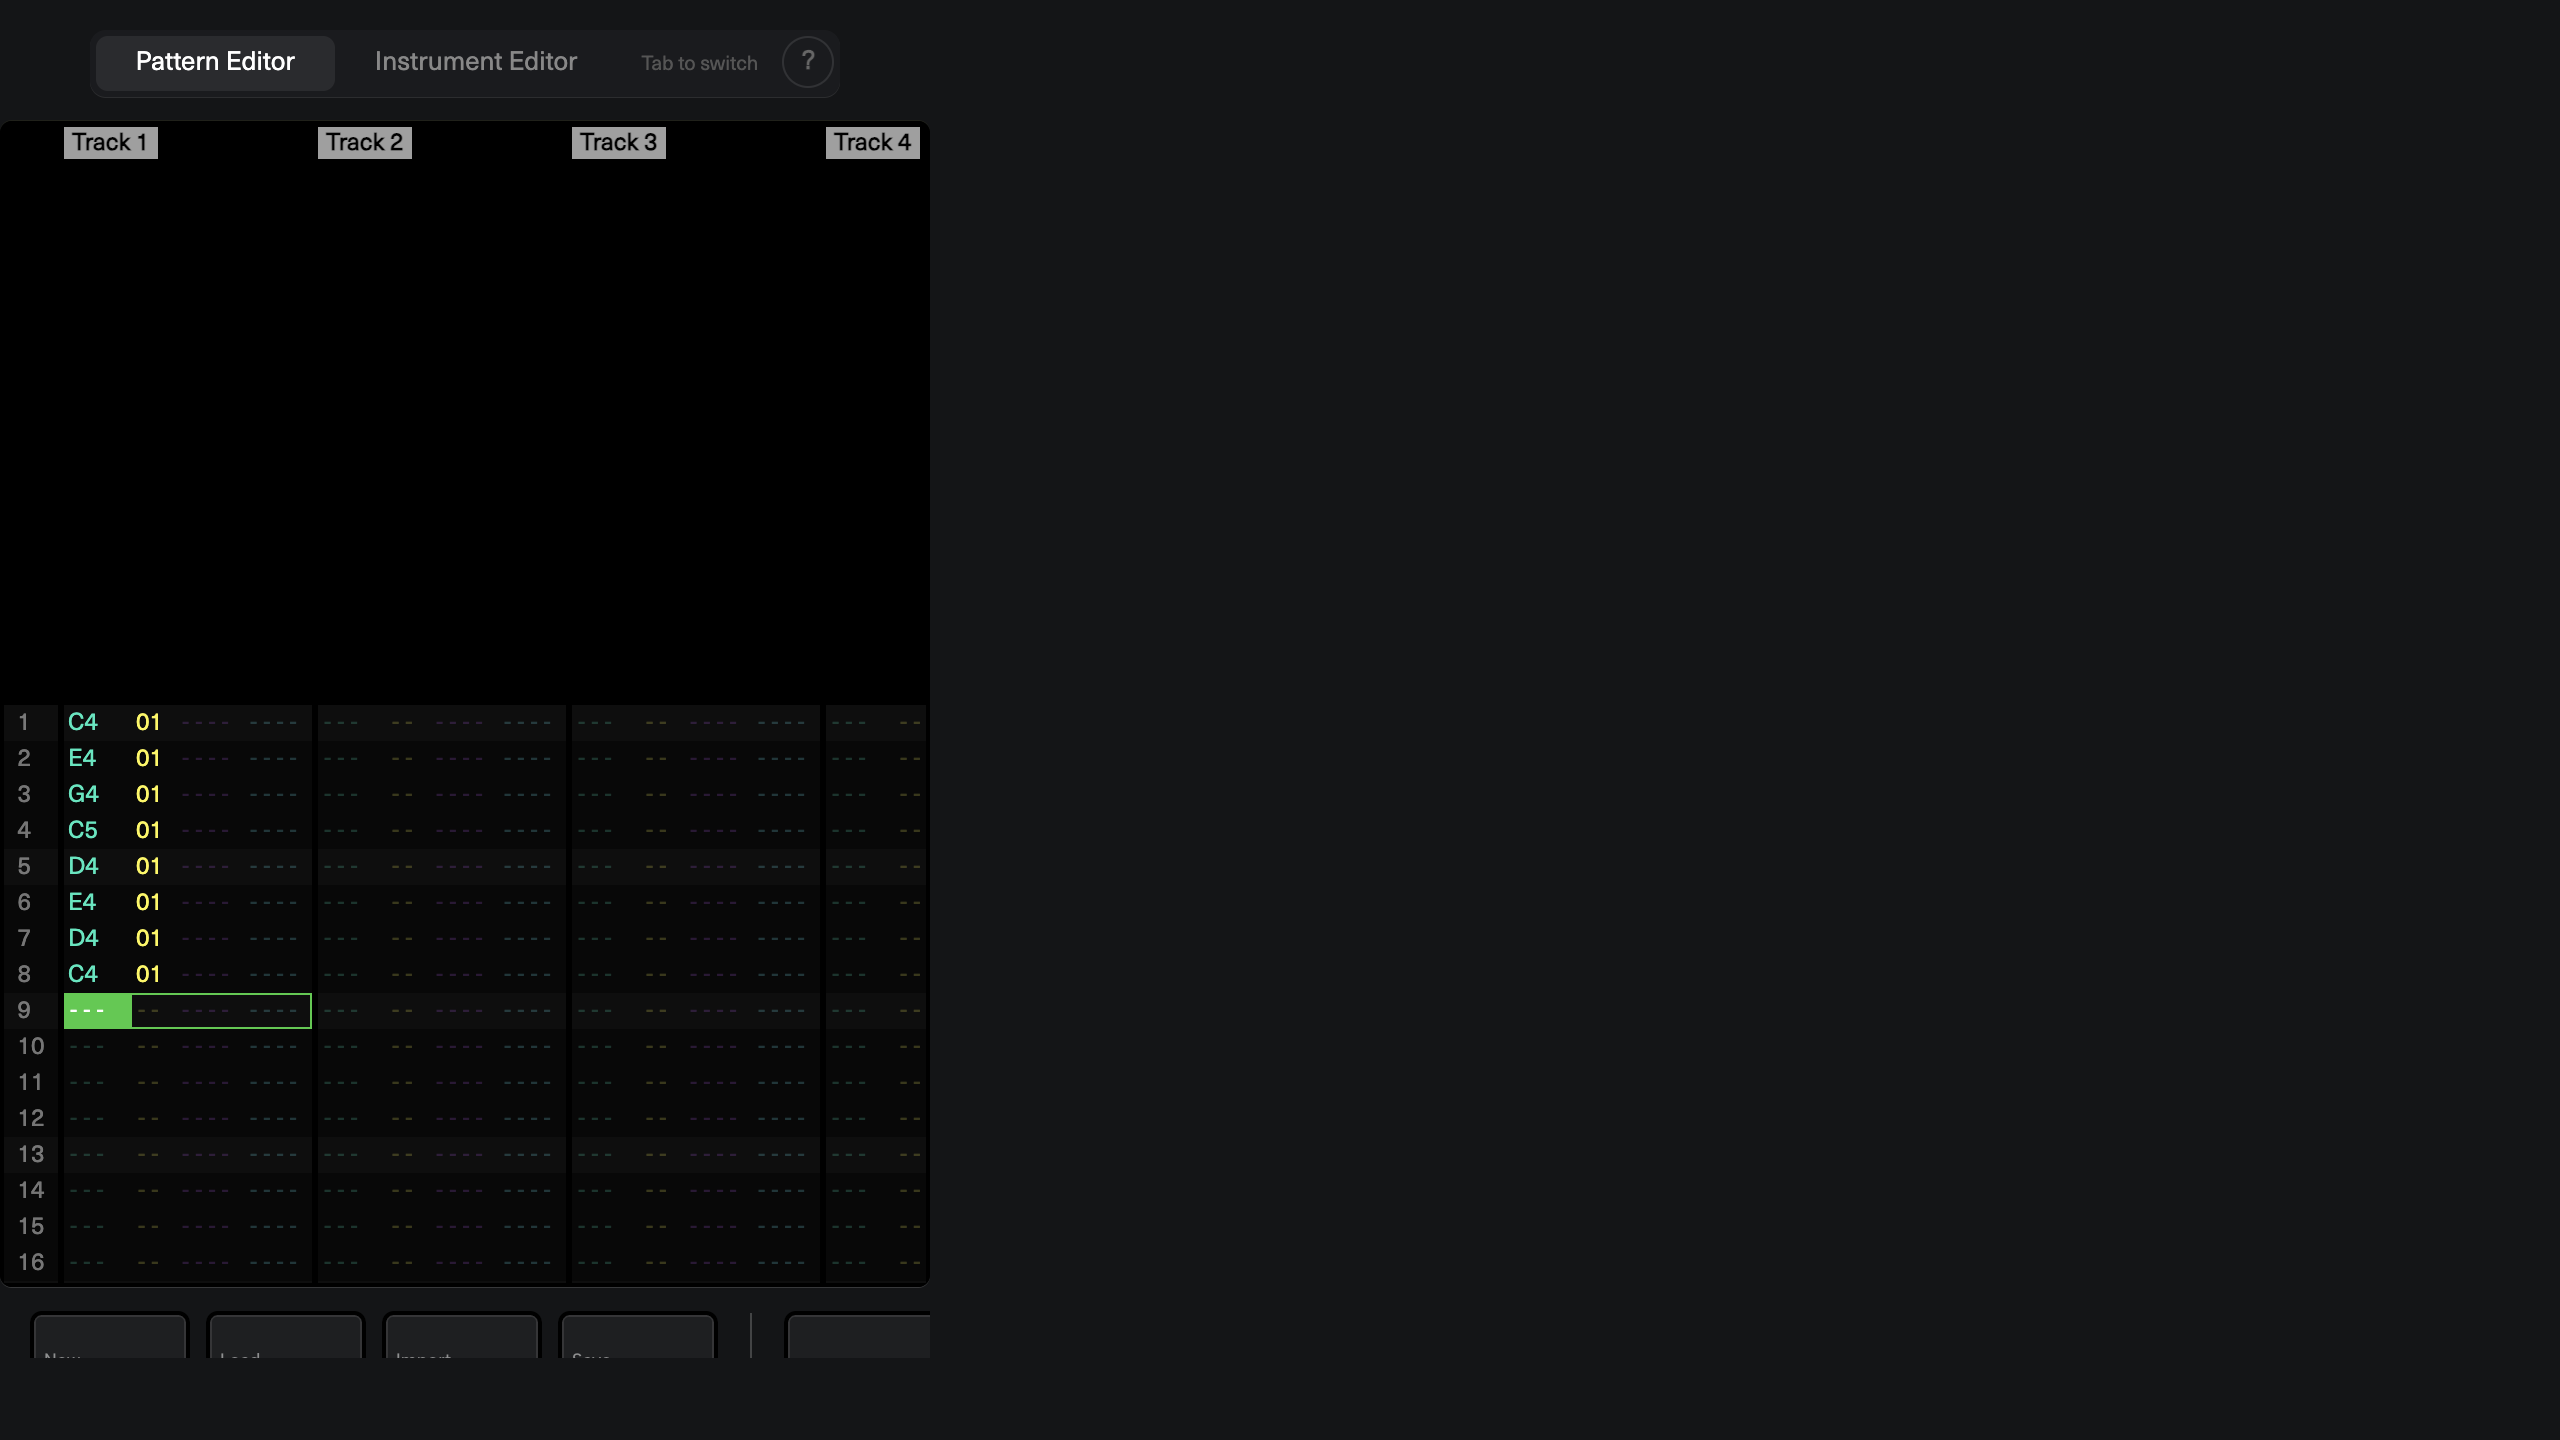
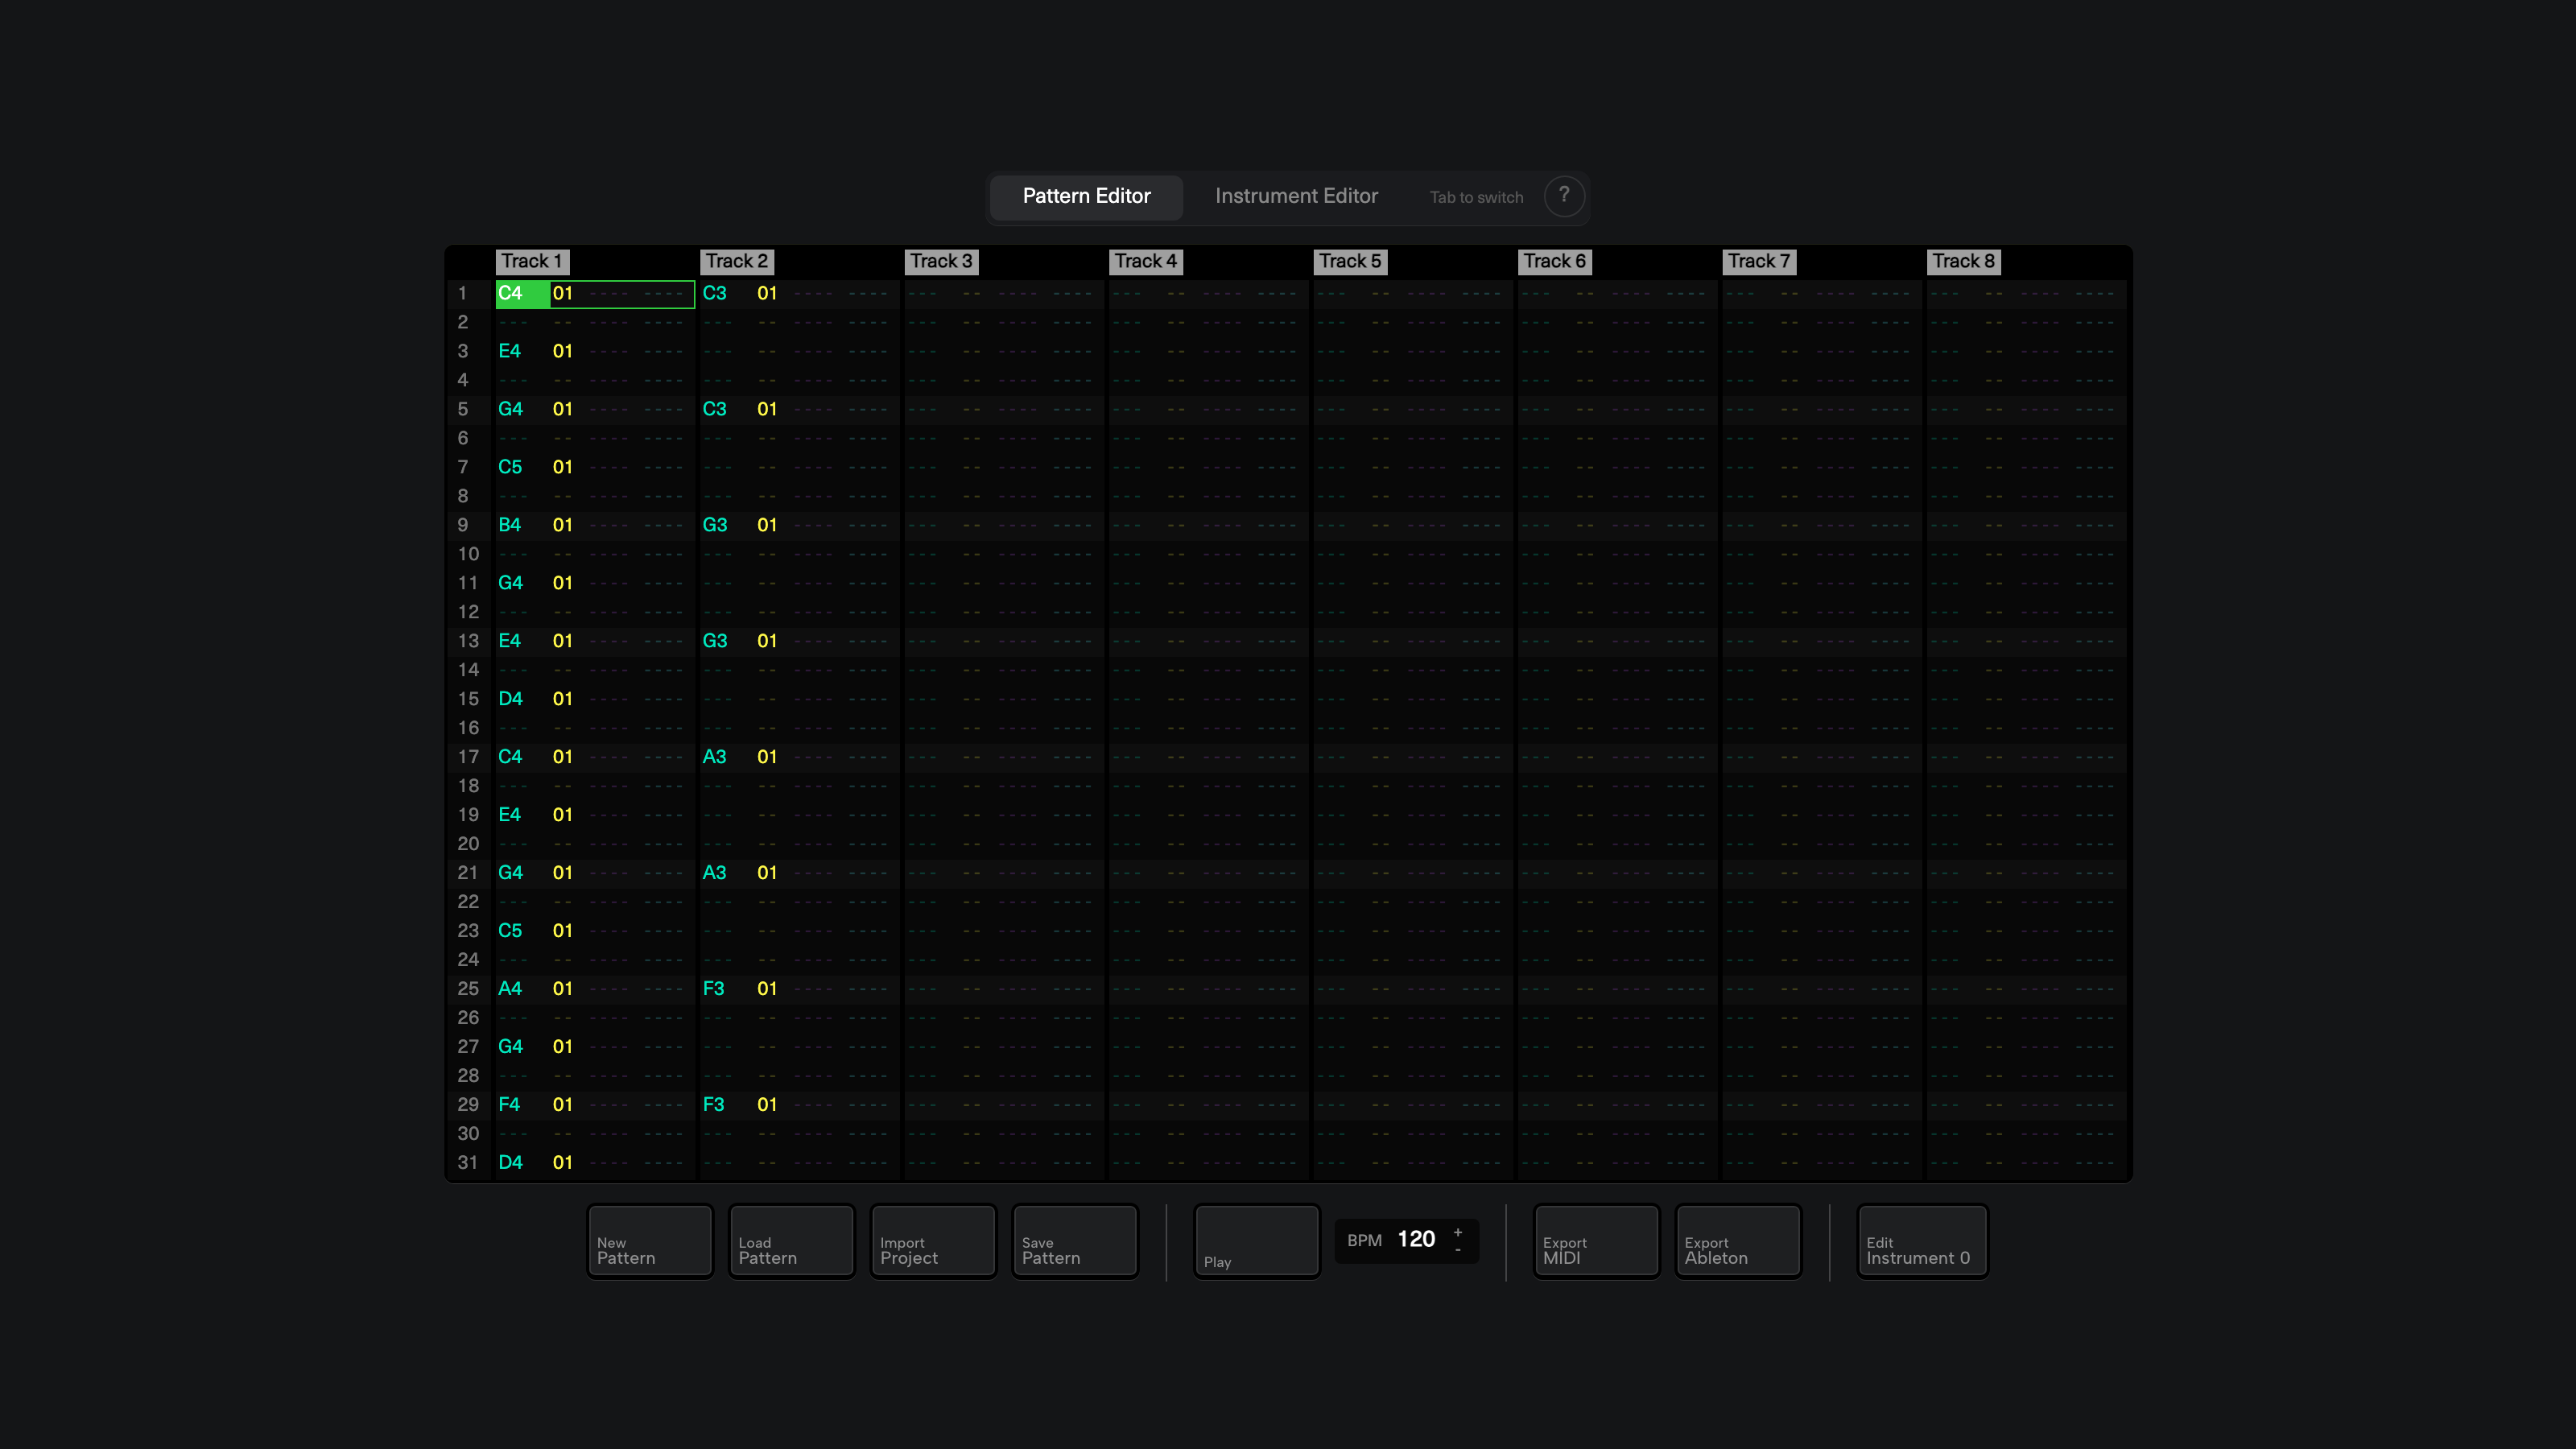
docs: redo screenshots with full centered views, polish credits

diff --git a/README.md b/README.md
@@ -4,8 +4,10 @@ A web-based editor for creating, editing, and playing **Polyend Tracker patterns
 Built with [`tracker-lib`](https://github.com/polyend/tracker-lib), Vue 3, and Elementary Audio.
 
 ![Pattern Editor](screenshot-pattern.png)
+*Pattern Editor — step sequencer with a melody and bassline loaded*
 
 ![Instrument Editor](screenshot-instrument.png)
+*Instrument Editor — sample waveform with playmode selection*
 
 
 ## Features
@@ -91,9 +93,9 @@ npm run dev
 | `.` / `/` | Octave down / up |
 
 
-## 🙏 Credits
+## Credits
 
-This project is a fork of the original **[Polyend Tracker Instrument Editor](https://github.com/polyend/tracker-unified-editor)** by **Sandro "Sandroid" Ducceschi**. Huge thanks to Sandro for:
+This project is a fork of the original **Polyend Tracker Instrument Editor** by **Sandro "Sandroid" Ducceschi**. Huge thanks to Sandro for:
 - The initial codebase and vision for a web-based Tracker editor
 - Creating and maintaining [`tracker-lib`](https://github.com/polyend/tracker-lib)
 - The original instrument editor, sample recorder, and audio engine